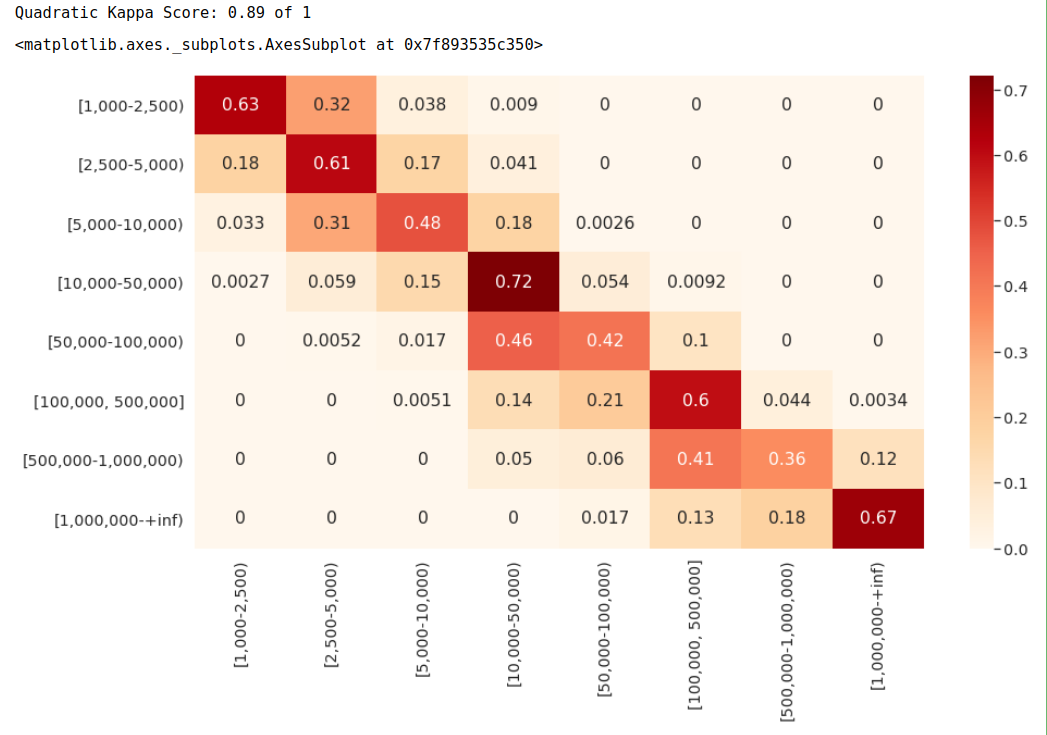
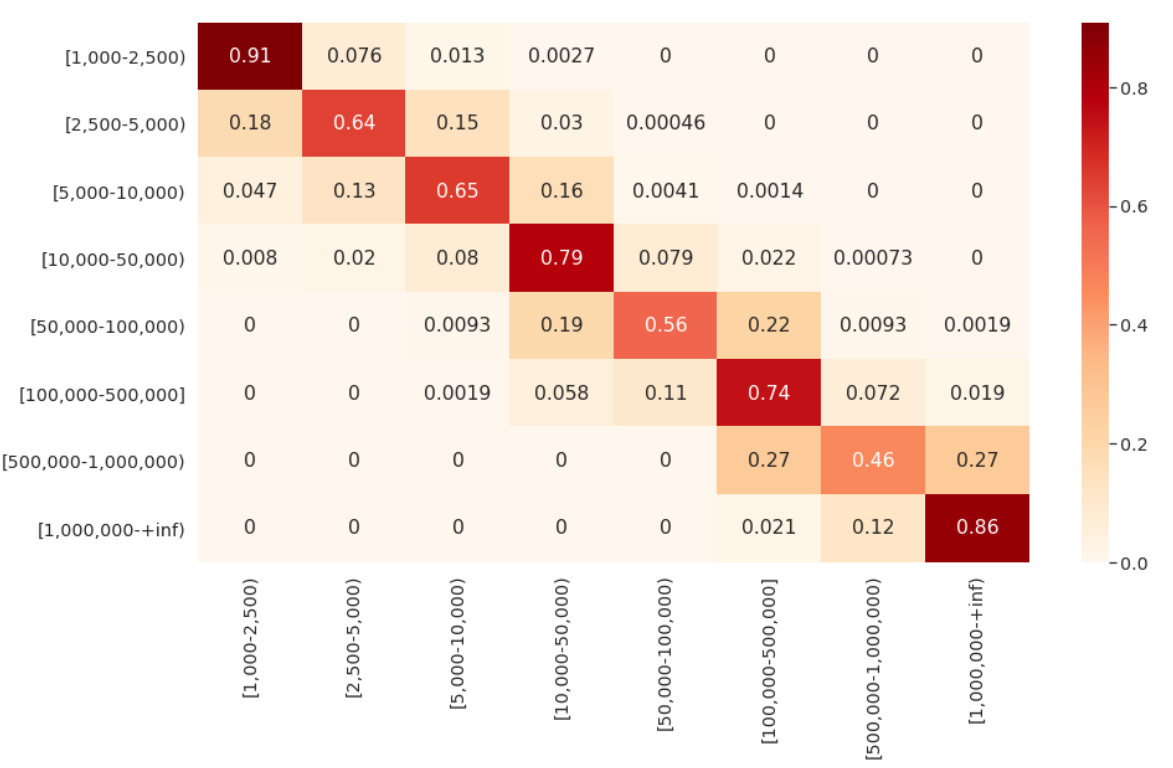
improves README and adds more images

diff --git a/README.md b/README.md
@@ -3,7 +3,9 @@
 
 <h3>Challenge:</h3>
    * Given <a href="https://wiki.dbpedia.org/" >DBpedia 2020 files</a> predict population of all cities (excluding cities with less than 1000 people)
-   
+   * To see how I handle this task using just some description text go to [NLP](nlp/README.MD)
+   * To see the evaluation notebook where the prediction of held out set is done and the predictions from NLP are added as features to LGBM, go to [Evaluation.ipynb](evaluation.ipynb)
+
 <h3>Explanation:</h3>
    
 DBpedia files are distributed as files of triples, where a triple consists of:
@@ -17,59 +19,62 @@ We have 3 files to merge:
   3) and a final one with relations of entities with literal values (Basketball -> **Team members** -> 5)
       
 To really identify "cities or settlements with at least 1,000 people", we read a file also distributed by DBpedia: geonames_links.ttl.bz2 (see <a href="https://public.opendatasoft.com/explore/dataset/geonames-all-cities-with-a-population-1000/table/?disjunctive.country"> GeoNames project</a>)
+
 <h3>Approach:</h3>
 
-* **Preprocessing**: (More detailed explanation can be found on preprocessing.ipynb and preprocessing.py) 
+* **Preprocessing**: (More detailed explanation can be found on [preprocessing.ipynb](preprocessing.ipynb) and preprocessing.py) 
     * Filter and Merge the 4 files discussed above
     * Parse the data
     * Identify population verbs/relations to generate target values. Discard any subject without population (we also do some scrapping to wikipedia.com to see if we can find the missing populations)
-    * Split populations in two files (training and hold_out) with stratification because the dataset is skewed to the right (see EDA) 
+    * Split populations in two files (training and held_out) with stratification because the dataset is skewed to the right (see [EDA.ipynb](EDA.ipynb))
     * Create raw dbpedia dataset, removing relations with very few occurrences (5%) in total and all relations about population (like _PopulationRural_) to avoid data leakage
     * Create training dataframe (look at preprocessing.ipynb to see how and why the columns were added to the final dataframe)
     * Fix population errors found either during EDA or training
     
-* **Training**: (See models.py)
-  - Since the range of the target value goes from 1000 to 21,571,281 I decided to use RMSLE as a metric, to avoid putting more attention to largest values. 
+* **Training**: (See also models.py)
+  - Since the <b>range of the target values go from 1000 to 21,571,281 </b> I decided to use RMSLE as a metric, to avoid putting more attention to largest values. 
   - All training/test and CV are done with stratification
   - At the moment, the models used are:
-    - Ridge polinomial 2° order (see linear_model.ipynb): 
-    - SVR with kernel rbf (see svr_model.ipynb):
-    - LXGB (see lxgb_model.ipynb):
-  - For EDA see: EDA.ipynb
+    - [Ridge polinomial of 2° order](linear_model.ipynb)
+    - [Non linear SVR](svr_model.ipynb)
+    - [LGBM](lxgb_model.ipynb)
+    - [NLP using 8 bins and just description text](nlp/NLP_evaluation.ipynb):
+  - To see EDA go to [EDA.ipynb](EDA.ipynb)
   
-* **Prediction:** (See evaluation.ipynb)
+* **Prediction:** (See [evaluation notebook](evaluation.ipynb))
   - I first run a Polinomial regression capable of detect some anomalies (the same used to find them during training)
   - Then I run a script to scrap wikipedia.com and try to find the population of the subjects with anomalies
   - I manualy check and fix the errors found and run the 2 models
   - Baseline held out score using the mean: 
-    - 0.7 RMSLE
-  - Ridge (polinomial 2° order): 
-    - Held out **RMSLE: 0.3020** 
-    - Held out **R2 score: 0.8128**
-  - SVR (with kernel rbf):
-    - Held out **RMSLE: 0.2767**
-  - LXGB:
-    - Held out **RMSLE: 0.2659**
-  - I Split the target in 8 sensible splits and I got a Quadratic Kappa score of 0.89, which I consider a reasonable value
+    - <b>0.7 RMSLE</b>
+  - Best model using infobox features + NLP features gives:
+    - Held out **RMSLE: 0.227**
+    - Biggest logarithmic error: <b>1.38</b> 
+    - Log absolute errors: 
+      - Greater than 1: <b>0.38%</b>
+      - Greater than 0.5: <b>4.63%</b>
+      - Greater than 0.25: <b>19.35%</b>
+      - Greater than 0.1: <b>48.87%</b>
+  - I Split the target in 8 sensible bins and I got a <b>Quadratic Kappa score of 0.93 </b>. As you'll see, most of the corner values in the confusion matrix are 0, which means the model doesn't make big mistakes (ie: saying one city has less than 2500 people when it has more than 100,000)
     
 * **Problems and limitations:**
   - There are a lot of missing values because each subject has its own set of relations
   - There are a good amount of errors in dbpedia, so manual interaction is needed. (I have to surf the web a lot to check the real populations of some cities when doing error analysis)
-  - Not only the target value has errors, but also the other relations like AreaTotal. See linear_model.ipynb. The polinomial model found Woodstock,_Ontario as an anomaly.
+  - Not only the target value has errors, but also the other relations like AreaTotal.
 
 * **Further improvements**:
-  - Try text mining on the description of every subject 
-  - Try Ensemble learning
   - More error analysis over biggest differences
   - Feature importance
    
 
 ### Prediction vs target plot for a model always predicting the mean value (Log10)
-![title](img/Dummy_mean_predictions.png)
+![Dummy pred](img/Dummy_mean_predictions.png)
 
-### Plots for the best model so far (Log10) 
-![title](img/lxgb_predictions.png)
+### Plots for the best model so far: LGBM + NLP (Log10) 
+![lxgb_predictions](img/lxgb_predictions.png)
 
+### Target split in 8 sensible bins gives a Quadratic kappa score of 0.93
+![Quadratic_Kappa_and_Conf_matrix](img/Quadratic_Kappa_and_Conf_matrix.png)
 
-### Target split in 8 sensible bins gives a Quadratic kappa score of 0.89 (max value is 1)
-![title](img/Quadratic_Kappa_and_Conf_matrix.png)
+### Errors Boxplot
+![log_errors_boxplot](img/log_errors_boxplot.png)
